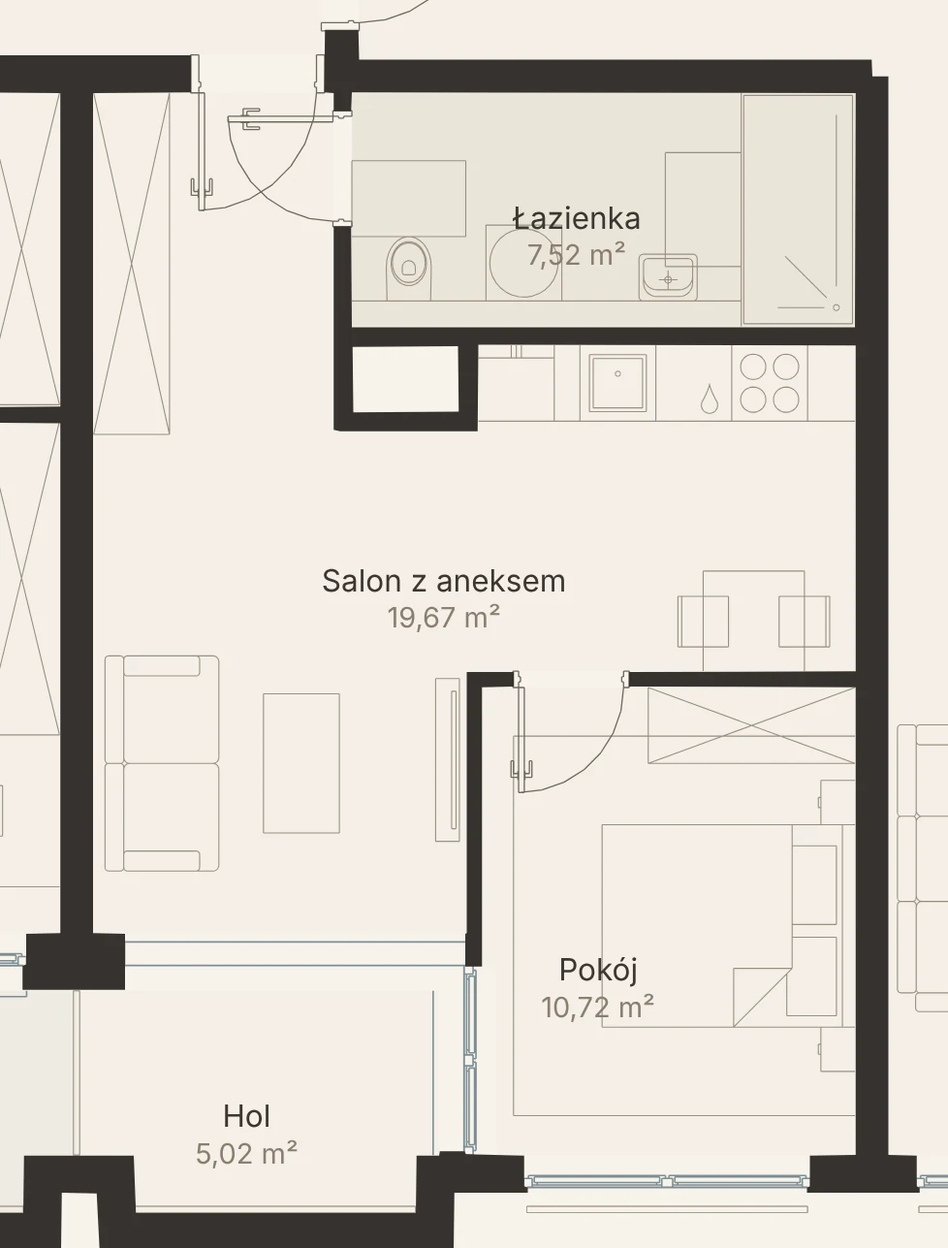
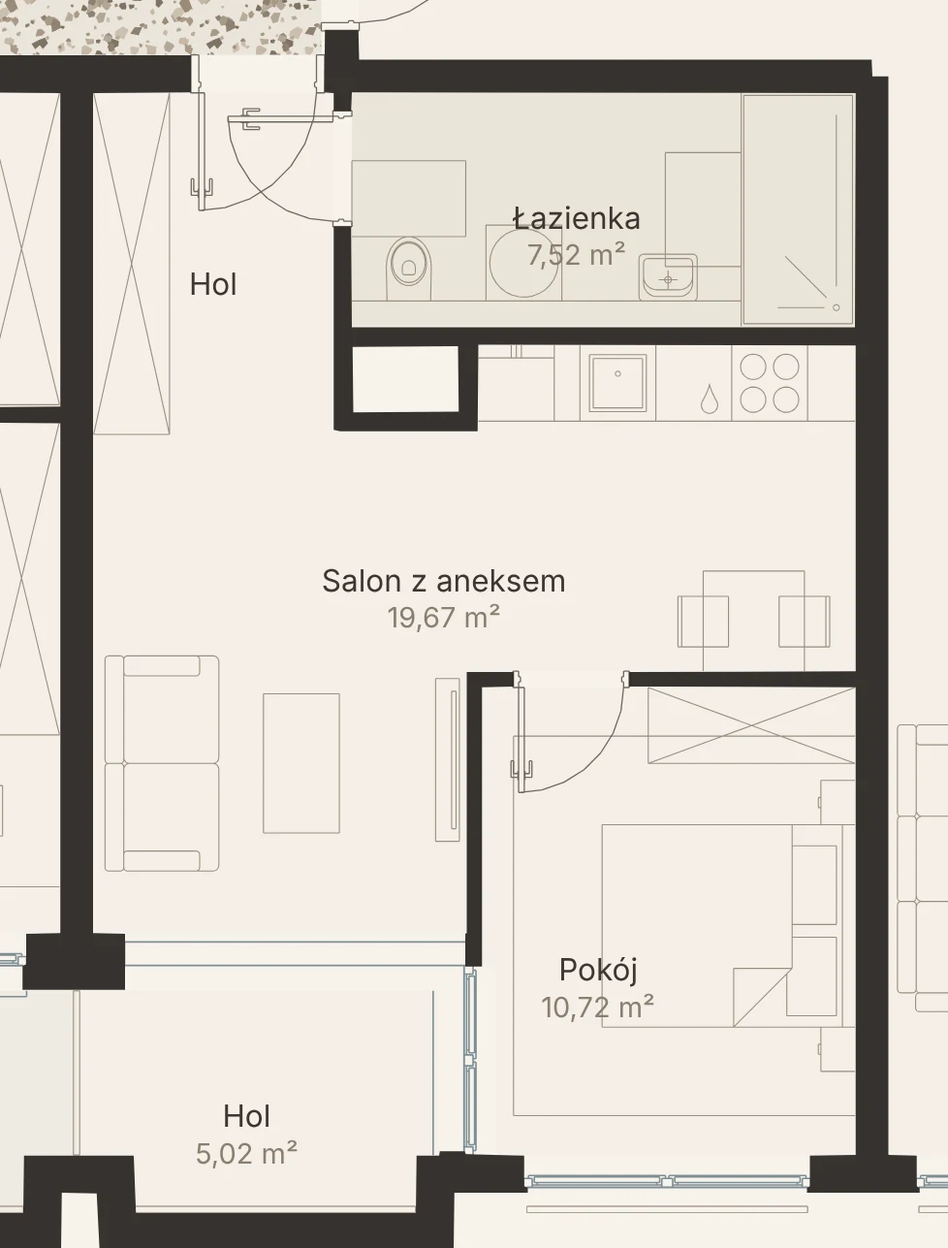
M3.07/M4.07: hol należy do lokalu; 3D: przejrzystsze szkło, stolik i 2 fotele na loggiach, obraz na 1,5 m z dala od TV, bez okapu/szafek nad wyspą, szafki górne przy ścianie, realistyczniejsze światło (ACES, połysk materiałów, okluzja) (#122)
Claude-Session: https://claude.ai/code/session_01JqTzECbEDLjSdFDYMQNNHw

Changed region(s): [[0.0, 0.0, 0.3374, 0.0622], [0.2147, 0.2176, 0.2454, 0.2486]]

diff --git a/assets/js/dollhouse.js b/assets/js/dollhouse.js
@@ -12,7 +12,7 @@
     oak: [104, 74, 53], tile: [222, 214, 201], stone: [205, 198, 187],
     linen: [236, 230, 220], linen2: [244, 241, 235], boucle: [232, 226, 215], sand: [214, 200, 179], taupe: [176, 160, 141],
     mocha: [134, 108, 88], walnut: [96, 70, 52], door: [78, 52, 36], onyx: [120, 78, 56], oakLight: [204, 182, 150], travertine: [221, 210, 192], brass: [178, 145, 92],
-    veneer: [146, 102, 70], marble: [238, 235, 229], canvas: [234, 222, 201], terra: [184, 98, 62], ochre: [208, 152, 74], umber: [92, 62, 44], sienna: [158, 84, 52], legs: [120, 120, 118], raksa: [212, 200, 182], raksa2: [198, 186, 168], black: [38, 36, 34], white: [247, 246, 242], cabinet: [217, 208, 194], steel: [150, 150, 148], glass: [110, 172, 220], rug: [226, 217, 202],
+    veneer: [146, 102, 70], marble: [238, 235, 229], canvas: [234, 222, 201], terra: [184, 98, 62], ochre: [208, 152, 74], umber: [92, 62, 44], sienna: [158, 84, 52], legs: [120, 120, 118], raksa: [212, 200, 182], raksa2: [198, 186, 168], black: [38, 36, 34], white: [247, 246, 242], cabinet: [217, 208, 194], steel: [150, 150, 148], glass: [196, 216, 226], rug: [226, 217, 202],
     green: [110, 124, 92], pot: [196, 184, 166], teak: [168, 134, 98], teak2: [150, 114, 80], olive: [118, 128, 96], olive2: [134, 144, 110],
     bronze: [120, 96, 70], frame: [190, 164, 120], curtain: [240, 235, 226], rugOut: [214, 205, 190]
   };
@@ -123,15 +123,16 @@
       M.cyl(p[0], p[1], r * 1.35, dy + 0.75, dy + 1.05, C.olive, 14); M.cyl(p[0], p[1], r * 1.05, dy + 1.05, dy + 1.3, C.olive2, 12); M.cyl(p[0], p[1], 0.02, dy + 0.55, dy + 0.78, C.walnut, 6);
     };
     if (L > 1.6) { plant(-L / 2 + 0.4, 0, 0.2); plant(L / 2 - 0.4, 0, 0.2); }
-    if (D < 1.25 || L < 2.4) return;
-    [-0.55, 0.55].forEach(function (u) {
+    if (D < 0.9 || L < 1.7) return;
+    var cw = Math.min(0.33, (D - 0.2) / 2), cu = Math.min(0.55, L / 2 - 0.45);
+    [-cu, cu].forEach(function (u) {
       if (!ok(u, 0)) return;
-      var a = at(u - 0.33, -0.36), c = at(u + 0.33, 0.36);
+      var a = at(u - cw, -cw), c = at(u + cw, cw);
       var x0 = Math.min(a[0], c[0]), x1 = Math.max(a[0], c[0]), z0 = Math.min(a[1], c[1]), z1 = Math.max(a[1], c[1]);
       M.box(x0, z0, x1, z1, dy + 0.05, dy + 0.3, C.teak2); M.box(x0 + 0.04, z0 + 0.04, x1 - 0.04, z1 - 0.04, dy + 0.3, dy + 0.42, C.linen);
-      var bk = at(u, -0.36); M.box(horiz ? x0 + 0.04 : bk[0] - 0.05, horiz ? bk[1] - 0.05 : z0 + 0.04, horiz ? x1 - 0.04 : bk[0] + 0.05, horiz ? bk[1] + 0.05 : z1 - 0.04, dy + 0.3, dy + 0.75, C.linen);
+      var bk = at(u, -cw); M.box(horiz ? x0 + 0.04 : bk[0] - 0.05, horiz ? bk[1] - 0.05 : z0 + 0.04, horiz ? x1 - 0.04 : bk[0] + 0.05, horiz ? bk[1] + 0.05 : z1 - 0.04, dy + 0.3, dy + 0.75, C.linen);
     });
-    var t = at(0, 0.05); M.cyl(t[0], t[1], 0.24, dy + 0.42, dy + 0.46, C.travertine, 24); M.cyl(t[0], t[1], 0.05, dy, dy + 0.42, C.bronze, 10);
+    var t = at(0, 0.05); M.cyl(t[0], t[1], Math.min(0.24, cu - cw - 0.04), dy + 0.42, dy + 0.46, C.travertine, 24); M.cyl(t[0], t[1], 0.05, dy, dy + 0.42, C.bronze, 10);
     if (D > 1.6) { var r = at(0, 0); M.box(r[0] - (horiz ? 1.1 : 0.7), r[1] - (horiz ? 0.7 : 1.1), r[0] + (horiz ? 1.1 : 0.7), r[1] + (horiz ? 0.7 : 1.1), dy, dy + 0.01, C.rugOut); }
   }
 
@@ -229,6 +230,7 @@
         M.box(horiz ? q[0] : cc - 0.05, horiz ? cc - 0.05 : q[0], horiz ? q[1] : cc + 0.05, horiz ? cc + 0.05 : q[1], dy + 0.02, dy + WALL_H - 0.08, C.curtain);
       });
     });
+    CUR_WALLS = lv.walls.map(function (w) { return [w[0] + dx, w[1] + dz, w[2] + dx, w[3] + dz]; });
     lv.items.forEach(function (it) { try { furnish(M, it, dx, dz, dy); } catch (e) { /* pojedynczy mebel nie blokuje modelu */ } });
     try { painting(M, lv, dx, dz, dy); } catch (e) { /* obraz opcjonalny */ }
   }
@@ -239,6 +241,7 @@
     var sal = lv.floors.filter(function (f) { return /salon/i.test(f.n); })[0] || lv.floors.filter(function (f) { return f.k === 'in'; }).sort(function (a, b) { return b.a - a.a; })[0];
     if (!sal) return;
     var bad = lv.items.filter(function (it) { return /counter|appl|sink|hob|fridge|wardrobe|tv|island/.test(it.t); }).map(function (it) { return bbox(it.q); });
+    var tvs = lv.items.filter(function (it) { return it.t === 'tv'; }).map(function (it) { return bbox(it.q); });
     var sofas = lv.items.filter(function (it) { return it.t === 'sofa'; }).map(function (it) { return bbox(it.q); });
     var near = function (p, b, d) { return p[0] > b[0] - d && p[0] < b[2] + d && p[1] > b[1] - d && p[1] < b[3] + d; };
     var best = null;
@@ -251,6 +254,7 @@
         var pr = function (along, off) { return hz ? [along, c + s * off] : [c + s * off, along]; };
         for (var m = a0 + 0.65; m <= a0 + len - 0.65 + 1e-6; m += 0.25) {
           if (![-0.5, 0, 0.5].every(function (o) { return inside(pr(m + o, 0.3), sal.p); })) continue;
+          if (tvs.some(function (b) { return near(pr(m, 0.3), b, 1.4); })) continue;
           if (bad.some(function (b) { return near(pr(m, 0.3), b, 0.55) || near(pr(m - 0.5, 0.3), b, 0.3) || near(pr(m + 0.5, 0.3), b, 0.3); })) continue;
           var glassy = (lv.glass || []).some(function (g) { var gh = (g[2] - g[0]) >= (g[3] - g[1]); if (gh !== hz) return false; var gc = hz ? (g[1] + g[3]) / 2 : (g[0] + g[2]) / 2; if (Math.abs(gc - c) > 0.45) return false; var g0 = hz ? g[0] : g[1], g1 = hz ? g[2] : g[3]; return g1 > m - 0.6 && g0 < m + 0.6; });
           if (glassy) continue;
@@ -260,7 +264,7 @@
       });
     });
     if (!best) return;
-    var B = best, y0 = 0.98;
+    var B = best, y0 = 1.0;
     // prostokąt w płaszczyźnie ściany: u – wzdłuż ściany (0..1 m), v – wysokość, d – odsunięcie od ściany
     var rect = function (u0, u1, v0, v1, d0, d1, col) {
       var a = B.m - 0.5 + u0, b = B.m - 0.5 + u1, p0 = B.c + B.s * d0, p1 = B.c + B.s * d1;
@@ -284,6 +288,9 @@
     disc(0.73, 0.78, 0.07, 0.054, C.sienna);                           // małe słońce
   }
 
+  var CUR_WALLS = [];
+  // czy za blokiem (strona y=0) stoi ściana – inaczej to wyspa i nie wieszamy szafek ani okapu
+  function againstWall(pts) { return pts.every(function (p) { return CUR_WALLS.some(function (w) { return p[0] > w[0] - 0.12 && p[0] < w[2] + 0.12 && p[1] > w[1] - 0.12 && p[1] < w[3] + 0.12; }); }); }
   function furnish(M, it, dx, dz, dy) {
     var Lw = frame(it), L = function (x, y) { var p = Lw(x, y); return [p[0] + dx, p[1] + dz]; };
     var regs = it.l.map(function (P, i) { var b = bbox(P); return { P: P, W: it.r[i], b: b, w: b[2] - b[0], d: b[3] - b[1], A: polyArea(P) / 1e4 }; })
@@ -440,13 +447,16 @@
         M.prism(q, Y(0.08), Y(0.88), C.veneer, C.veneer, 5); M.prism(q, Y(0), Y(0.08), C.black);
         M.prism(q, Y(0.88), Y(0.92), C.marble, C.marble, 6);
         // ściana po stronie y=0 bloku; front po przeciwnej
-        var wallY = sgn > 0 ? lb[1] : lb[3], frontY = sgn > 0 ? lb[3] : lb[1], fw = lb[2] - lb[0];
+        var fw = lb[2] - lb[0], probe = function (yy, s) { return againstWall([L(lb[0] + fw * .25, yy + s * 8), L(lb[0] + fw * .75, yy + s * 8)]); };
+        var wA = probe(lb[1], -1), wB = probe(lb[3], 1), ksg = wA ? 1 : wB ? -1 : sgn;   // strona ściany sprawdzana geometrią
+        var wallY = ksg > 0 ? lb[1] : lb[3], frontY = ksg > 0 ? lb[3] : lb[1]; sgn = ksg;
         var nF = Math.max(1, Math.round(fw / 60)), fs = fw / nF;
         for (var k = 0; k < nF; k++) {                                       // uchwyty: smukłe mosiężne listwy na frontach
           var a0 = lb[0] + k * fs + 12, a1 = lb[0] + (k + 1) * fs - 12;
           if (a1 - a0 > 6) M.prism(R([a0, Math.min(frontY, frontY + sgn * 2.5), a1, Math.max(frontY, frontY + sgn * 2.5)]), Y(0.78), Y(0.795), C.brass);
         }
-        if (it.t !== 'hob') {                                                 // szafki górne z forniru
+        if (!wA && !wB) break;
+        if (it.t === 'appl') {} else if (it.t !== 'hob') {                    // szafki górne z forniru
           M.prism(R([lb[0] + 1, Math.min(wallY, wallY + sgn * 35), lb[2] - 1, Math.max(wallY, wallY + sgn * 35)]), Y(1.42), Y(WALL_H - 0.02), C.veneer, C.veneer, 5);
           for (var k2 = 0; k2 < nF; k2++) { var b0 = lb[0] + k2 * fs + 12, b1 = lb[0] + (k2 + 1) * fs - 12, fy = wallY + sgn * 35; if (b1 - b0 > 6) M.prism(R([b0, Math.min(fy, fy + sgn * 2.5), b1, Math.max(fy, fy + sgn * 2.5)]), Y(1.45), Y(1.465), C.brass); }
         } else {                                                              // okap nad płytą
@@ -493,7 +503,7 @@
     'vec3 lin(vec3 c){return pow(c,vec3(2.2));}' +
     'float h(vec2 p){return fract(sin(dot(p,vec2(127.1,311.7)))*43758.5453);}' +
     'float sh(){vec3 q=vL.xyz/vL.w*.5+.5;if(q.x<0.||q.x>1.||q.y<0.||q.y>1.)return 1.;float s=0.;vec2 t=1./vec2(textureSize(uS,0));' +
-    'for(int x=-2;x<=2;x++)for(int y=-2;y<=2;y++){float d=texture(uS,q.xy+vec2(x,y)*t*2.2).r;s+=q.z-.0012>d?0.:1.;}return s/25.;}' +
+    'for(int x=-2;x<=2;x++)for(int y=-2;y<=2;y++){float d=texture(uS,q.xy+vec2(x,y)*t*3.).r;s+=q.z-.0012>d?0.:1.;}return smoothstep(0.,1.,s/25.);}' +
     'void main(){vec3 N=normalize(vN);vec3 col=lin(vC);int M=int(vM+.5);' +
     'if(M==1&&N.y>.5){float cw=.42,bw=.12;float cx=vP.x/cw;float ci=floor(cx);float lx=fract(cx)*cw;float sg=mod(ci,2.)<1.?1.:-1.;' +
     'float u=(vP.z+sg*lx)*.7071;float ri=floor(u/bw);float fu=fract(u/bw);float v=h(vec2(ri,ci));' +
@@ -505,12 +515,19 @@
     'float w=m2*pw*34.+sin(yl*2.3+pi*1.7)*1.4+sin(m2*9.+yl*.9)*.5;float g=.5+.5*sin(w*6.283*1.4);col*=.86+.1*g+.05*h(vec2(floor(m2*pw*240.),pi));' +
     'if(N.y<.5){float e=min(fu,1.-fu)*pw;col*=mix(.55,1.,smoothstep(0.,.004,e));float hy=abs(yl-.5);col*=mix(.6,1.,smoothstep(0.,.004,hy));}}' +
     'if(M==6){vec2 q=vP.xz*1.7+vec2(vP.y*.7);float n=sin(q.x*2.1+sin(q.y*1.3+q.x*.7)*2.4+sin(q.y*3.7)*.6);float v=smoothstep(.93,1.,abs(n));float n2=sin(q.y*5.3+sin(q.x*4.1)*1.6);float v2=smoothstep(.97,1.,abs(n2));col=mix(col,col*vec3(.62,.6,.6),v*.55+v2*.3);col*=.97+.03*h(floor(vP.xz*40.));}' +
-    'if(M==9){vec3 V=normalize(uEye-vP);float fr=pow(1.-abs(dot(N,V)),3.);o=vec4(mix(vC,vec3(.85,.93,1.),fr*.5),uA+fr*.2);return;}' +
-    'float ndl=max(dot(N,uSun),0.);float s=sh();vec3 sky=vec3(1.,.975,.94),gr=vec3(.62,.56,.5);' +
-    'vec3 amb=mix(gr,sky,N.y*.5+.5)*.74;float ao=mix(.72,1.,smoothstep(0.,.5,vP.y-floor(vP.y/3.05)*3.05+.02));' +
-    'vec3 L=col*(amb*ao+vec3(1.,.93,.84)*.86*ndl*mix(.25,1.,s));' +
-    'vec3 V=normalize(uEye-vP);float sp=pow(max(dot(N,normalize(uSun+V)),0.),40.)*.06*s;L+=sp;' +
-    'L=L/(L+.75)*1.55;o=vec4(pow(L,vec3(1./2.2)),uA);}';
+    'if(M==9){vec3 V=normalize(uEye-vP);float fr=pow(1.-abs(dot(N,V)),3.);o=vec4(mix(vC,vec3(.9,.95,1.),fr*.5),uA+fr*.16);return;}' +
+    'float ndl=max(dot(N,uSun),0.);float s=sh();vec3 V=normalize(uEye-vP);float yl=vP.y-floor(vP.y/3.05)*3.05+.02;' +
+    // światło nieba (chłodniejsze) + odbicie od podłogi z orzecha (ciepłe), miękka okluzja przy podłodze i w narożach
+    'vec3 sky=vec3(.86,.9,1.),bounce=vec3(.78,.6,.46);vec3 amb=mix(bounce*.55,sky*.62,N.y*.5+.5);' +
+    'float ao=mix(.55,1.,smoothstep(0.,.9,yl))*mix(.82,1.,smoothstep(0.,.35,yl));if(N.y>.5)ao=1.;' +
+    'vec3 sunC=vec3(1.,.9,.76)*1.15;vec3 shC=mix(vec3(.62,.68,.8),vec3(1.),s);' +
+    'vec3 L=col*(amb*ao+sunC*ndl*shC*mix(.18,1.,s));' +
+    // połysk zależny od materiału: lakierowany parkiet, polerowany marmur, satynowy fornir, reszta matowa
+    'float gs=M==1?.35:M==6?.6:M==5?.18:M==2?.25:.04;float pw=M==6?90.:M==1?60.:30.;' +
+    'float fr=.04+.96*pow(1.-max(dot(N,V),0.),5.);vec3 Hh=normalize(uSun+V);' +
+    'L+=sunC*pow(max(dot(N,Hh),0.),pw)*gs*s*.9+sky*fr*gs*.35;' +
+    // ACES (filmowe) mapowanie tonów
+    'L*=.95;L=clamp((L*(2.51*L+.03))/(L*(2.43*L+.59)+.14),0.,1.);L=mix(vec3(dot(L,vec3(.2126,.7152,.0722))),L,.8);o=vec4(pow(L,vec3(1./2.2)),uA);}';
   var SVS = '#version 300 es\nlayout(location=0) in vec3 p;uniform mat4 uL;void main(){gl_Position=uL*vec4(p,1.);}';
   var SFS = '#version 300 es\nprecision mediump float;out vec4 o;void main(){o=vec4(1.);}';
 
@@ -591,7 +608,7 @@
     gl.enable(gl.CULL_FACE); gl.cullFace(gl.BACK);
     gl.bindVertexArray(this.op.vao); gl.drawArrays(gl.TRIANGLES, 0, this.op.n);
     gl.disable(gl.CULL_FACE);
-    gl.enable(gl.BLEND); gl.blendFunc(gl.SRC_ALPHA, gl.ONE_MINUS_SRC_ALPHA); gl.depthMask(false); gl.uniform1f(u('uA'), 0.5);
+    gl.enable(gl.BLEND); gl.blendFunc(gl.SRC_ALPHA, gl.ONE_MINUS_SRC_ALPHA); gl.depthMask(false); gl.uniform1f(u('uA'), 0.26);
     gl.bindVertexArray(this.gl_.vao); gl.drawArrays(gl.TRIANGLES, 0, this.gl_.n);
     gl.depthMask(true); gl.disable(gl.BLEND);
   };
@@ -688,7 +705,7 @@
     var load = dlg.querySelector('.dh__load'); load.hidden = false; load.textContent = 'Ładowanie modelu…';
     if (!viewer) { load.textContent = 'Ta przeglądarka nie obsługuje widoku 3D.'; return; }
     viewer.az = -0.62; viewer.el = 1.0; viewer.zoom = 1;
-    fetch(BASE + encodeURIComponent(id) + '.json?v=1793991387').then(function (r) { return r.ok ? r.json() : Promise.reject(); }).then(function (d) {
+    fetch(BASE + encodeURIComponent(id) + '.json?v=1793991758').then(function (r) { return r.ok ? r.json() : Promise.reject(); }).then(function (d) {
       data = d; setLevels(); show(0); load.hidden = true; intro();
     }).catch(function () { load.textContent = 'Model 3D tego lokalu jest w przygotowaniu.'; });
     setTimeout(function () { var x = dlg.querySelector('.dh__x'); if (x) x.focus({ preventScroll: true }); }, 50);

diff --git a/assets/js/units.js b/assets/js/units.js
@@ -28,7 +28,7 @@ window.N75_UNITS = [
   {"id":"M3.04","floor":3,"levels":[3],"rooms":3,"area":64.8,"roomsList":[[1,"Pokój",11.38],[2,"Salon z aneksem kuchennym",29.28],[4,"Łazienka",4.28],[5,"Pokój",12.77],[6,"Komunikacja",7.44]],"price":876096,"status":"wolne","history":[["2026-08-25",876096]],"shape":{"3":[[204,550],[204,700],[193,700],[192,705],[128,705],[128,964],[373,964],[373,922],[401,922],[401,880],[418,879],[418,760],[545,760],[545,642],[516,642],[516,550]]},"label":{"3":[385,649]},"crop":{"3":[98,520,477,474]}},
   {"id":"M3.05","floor":3,"levels":[3],"rooms":2,"area":42.81,"roomsList":[[1,"Salon z aneksem kuchennym",26.02],[2,"Łazienka",5.84],[3,"Pokój",11.15]],"price":601052,"status":"wolne","history":[["2026-08-25",601052]],"shape":{"3":[[128,972],[128,1108],[192,1108],[193,1113],[204,1113],[204,1244],[514,1244],[514,1214],[545,1213],[545,1066],[374,1066],[373,990],[334,990],[333,972]]},"label":{"3":[384,1160]},"crop":{"3":[98,942,477,332]}},
   {"id":"M3.06","floor":3,"levels":[3],"rooms":4,"area":114.55,"roomsList":[[1,"Pokój",11.41],[2,"Salon z aneksem kuchennym",44.46],[3,"Łazienka",4.97],[4,"Łazienka",4.7],[5,"Pokój",21.87],[6,"Komunikacja",15.48],[7,"Pokój",10.39],[8,"Pralnia",1.35]],"price":1489150,"status":"wolne","history":[["2026-08-25",1489150]],"shape":{"3":[[128,1252],[128,1783],[370,1783],[370,1707],[636,1707],[636,1414],[545,1414],[545,1403],[486,1403],[486,1382],[545,1382],[545,1303],[516,1302],[516,1252]]},"label":{"3":[283,1661]},"crop":{"3":[98,1222,568,591]}},
-  {"id":"M3.07","floor":3,"levels":[3],"rooms":2,"area":42.65,"roomsList":[[2,"Salon z aneksem kuchennym",19.67],[3,"Łazienka",7.52],[4,"Komunikacja",5.02],[8,"Pokój",10.72]],"price":598806,"status":"wolne","history":[["2026-08-25",598806]],"shape":{"3":[[732,1414],[732,1498],[775,1498],[776,1530],[643,1529],[643,1707],[777,1707],[777,1719],[782,1719],[782,1783],[909,1783],[909,1414]]},"label":{"3":[765,1588]},"crop":{"3":[613,1384,326,429]}},
+  {"id":"M3.07","floor":3,"levels":[3],"rooms":2,"area":42.65,"roomsList":[[2,"Salon z aneksem kuchennym",19.67],[3,"Łazienka",7.52],[4,"Komunikacja",5.02],[8,"Pokój",10.72]],"price":598806,"status":"wolne","history":[["2026-08-25",598806]],"shape":{"3":[[643,1414],[643,1707],[777,1707],[777,1719],[782,1719],[782,1783],[909,1783],[909,1414]]},"label":{"3":[765,1588]},"crop":{"3":[613,1384,326,429]}},
   {"id":"M3.08","floor":3,"levels":[3],"rooms":3,"area":91.88,"roomsList":[[1,"Pokój",10.24],[2,"Salon z aneksem kuchennym",47.68],[3,"Pokój",17.72],[4,"Łazienka",4.3],[6,"Łazienka",5.48],[7,"Komunikacja",6.89]],"price":1242218,"status":"wolne","history":[["2026-08-25",1242218]],"shape":{"3":[[734,1163],[734,1277],[766,1277],[766,1311],[734,1312],[734,1406],[911,1406],[911,1412],[917,1412],[917,1783],[1179,1783],[1179,1463],[1114,1462],[1114,1163],[870,1163],[869,1189],[849,1189],[849,1163]]},"label":{"3":[1049,1569]},"crop":{"3":[704,1133,505,680]}},
   {"id":"M3.09","floor":3,"levels":[3],"rooms":1,"area":32.44,"roomsList":[[1,"Łazienka",4.56],[2,"Salon z aneksem kuchennym",28.02]],"price":435215,"status":"wolne","history":[["2026-08-25",435215]],"shape":{"3":[[1028,958],[1009,957],[1009,925],[954,925],[954,957],[939,957],[939,931],[711,931],[711,961],[677,961],[677,931],[650,931],[650,1125],[685,1125],[685,1156],[950,1156],[950,1148],[1028,1148]]},"label":{"3":[796,1038]},"crop":{"3":[620,895,438,291]}},
   {"id":"M3.10","floor":3,"levels":[3],"rooms":1,"area":54.16,"roomsList":[[1,"Salon z aneksem kuchennym",47.61],[2,"Łazienka",3.88],[3,"Komunikacja",2.85]],"price":670284,"status":"wolne","history":[["2026-08-25",670284]],"shape":{"3":[[670,570],[670,647],[650,647],[650,746],[681,746],[685,796],[650,796],[650,898],[681,898],[681,923],[954,923],[954,929],[1028,929],[1028,776],[1009,776],[1009,742],[1028,742],[1028,558],[939,558],[939,550],[694,550],[694,570]]},"label":{"3":[792,739]},"crop":{"3":[620,520,438,439]}},
@@ -38,7 +38,7 @@ window.N75_UNITS = [
   {"id":"M4.04","floor":4,"levels":[4],"rooms":3,"area":64.8,"roomsList":[[1,"Pokój",11.38],[2,"Salon z aneksem kuchennym",29.28],[4,"Łazienka",4.28],[5,"Pokój",12.77],[6,"Komunikacja",7.44]],"price":943488,"status":"wolne","history":[["2026-08-25",943488]],"shape":{"4":[[204,550],[204,700],[192,700],[192,705],[128,705],[128,964],[373,964],[373,922],[401,922],[401,880],[418,879],[418,760],[545,760],[545,642],[516,642],[516,550]]},"label":{"4":[385,649]},"crop":{"4":[98,520,477,474]}},
   {"id":"M4.05","floor":4,"levels":[4],"rooms":2,"area":42.81,"roomsList":[[1,"Salon z aneksem kuchennym",26.02],[2,"Łazienka",5.84],[3,"Pokój",11.15]],"price":645575,"status":"wolne","history":[["2026-08-25",645575]],"shape":{"4":[[128,972],[128,1108],[192,1108],[193,1113],[204,1113],[204,1244],[514,1244],[514,1214],[545,1213],[545,1066],[374,1066],[373,990],[334,990],[333,972]]},"label":{"4":[384,1160]},"crop":{"4":[98,942,477,332]}},
   {"id":"M4.06","floor":4,"levels":[4],"rooms":4,"area":114.55,"roomsList":[[1,"Pokój",11.41],[2,"Salon z aneksem kuchennym",44.46],[3,"Łazienka",4.97],[4,"Łazienka",4.7],[5,"Pokój",21.87],[6,"Komunikacja",15.48],[7,"Pokój",10.39],[8,"Pralnia",1.35]],"price":1548716,"status":"wolne","history":[["2026-08-25",1548716]],"shape":{"4":[[128,1252],[128,1783],[370,1783],[370,1707],[636,1707],[636,1414],[545,1414],[545,1403],[486,1403],[486,1382],[545,1382],[545,1303],[516,1302],[516,1252]]},"label":{"4":[283,1661]},"crop":{"4":[98,1222,568,591]}},
-  {"id":"M4.07","floor":4,"levels":[4],"rooms":2,"area":42.65,"roomsList":[[2,"Salon z aneksem kuchennym",19.67],[3,"Łazienka",7.52],[4,"Komunikacja",5.02],[8,"Pokój",10.72]],"price":620984,"status":"wolne","history":[["2026-08-25",620984]],"shape":{"4":[[732,1414],[732,1498],[775,1498],[776,1530],[643,1529],[643,1707],[777,1707],[777,1719],[782,1719],[782,1783],[909,1783],[909,1414]]},"label":{"4":[765,1588]},"crop":{"4":[613,1384,326,429]}},
+  {"id":"M4.07","floor":4,"levels":[4],"rooms":2,"area":42.65,"roomsList":[[2,"Salon z aneksem kuchennym",19.67],[3,"Łazienka",7.52],[4,"Komunikacja",5.02],[8,"Pokój",10.72]],"price":620984,"status":"wolne","history":[["2026-08-25",620984]],"shape":{"4":[[643,1414],[643,1707],[777,1707],[777,1719],[782,1719],[782,1783],[909,1783],[909,1414]]},"label":{"4":[765,1588]},"crop":{"4":[613,1384,326,429]}},
   {"id":"M4.08","floor":4,"levels":[4],"rooms":3,"area":91.88,"roomsList":[[1,"Pokój",10.24],[2,"Salon z aneksem kuchennym",47.68],[3,"Pokój",17.72],[4,"Łazienka",4.3],[6,"Łazienka",5.48],[7,"Komunikacja",6.89]],"price":1242218,"status":"wolne","history":[["2026-08-25",1242218]],"shape":{"4":[[1179,1144],[1118,1144],[1117,1163],[870,1163],[869,1189],[849,1189],[849,1163],[734,1163],[734,1277],[766,1277],[766,1311],[734,1312],[734,1406],[911,1406],[911,1412],[917,1412],[917,1783],[1179,1783],[1179,1463],[1114,1462],[1114,1167],[1129,1168],[1129,1447],[1179,1447],[1179,1417],[1199,1417],[1199,1182],[1179,1182]]},"label":{"4":[1039,1565]},"crop":{"4":[704,1114,525,699]}},
   {"id":"M4.09","floor":4,"levels":[4],"rooms":1,"area":32.21,"roomsList":[[1,"Łazienka",4.56],[2,"Salon z aneksem kuchennym",28.02]],"price":468978,"status":"wolne","history":[["2026-08-25",468978]],"shape":{"4":[[1028,958],[1009,957],[1009,925],[954,925],[954,957],[939,957],[939,931],[711,931],[711,961],[677,961],[677,931],[650,931],[650,1125],[685,1125],[685,1156],[950,1156],[950,1148],[1028,1148]]},"label":{"4":[804,1032]},"crop":{"4":[620,895,438,291]}},
   {"id":"M4.10","floor":4,"levels":[4],"rooms":1,"area":54.16,"roomsList":[[1,"Salon z aneksem kuchennym",47.61],[2,"Łazienka",3.88],[3,"Komunikacja",2.85]],"price":726611,"status":"wolne","history":[["2026-08-25",726611]],"shape":{"4":[[670,570],[670,647],[650,647],[650,746],[681,746],[685,796],[650,796],[650,898],[681,898],[681,923],[954,923],[954,929],[1028,929],[1028,776],[1009,776],[1009,742],[1028,742],[1028,558],[939,558],[939,550],[694,550],[694,570]]},"label":{"4":[792,739]},"crop":{"4":[620,520,438,439]}},

diff --git a/index.html b/index.html
@@ -18,7 +18,7 @@
   <link href="https://fonts.googleapis.com/css2?family=Jost:ital,wght@0,300..600;1,300..500&family=Nunito+Sans:ital,opsz,wght@0,6..12,300..700;1,6..12,300..500&display=swap" rel="stylesheet">
   <link rel="preload" as="image" href="assets/img/okolica-lotnicze.webp" imagesrcset="assets/img/okolica-lotnicze-1600.webp 1600w, assets/img/okolica-lotnicze.webp 3200w" imagesizes="100vw">
   <link rel="stylesheet" href="https://unpkg.com/leaflet@1.9.4/dist/leaflet.css" crossorigin="">
-  <link rel="stylesheet" href="assets/css/style.css?v=1793991387">
+  <link rel="stylesheet" href="assets/css/style.css?v=1793991758">
   <script>document.documentElement.classList.add('js');
   // Futura / Avenir Next tylko na Apple: gdy ich brak, dostrajamy darmowe zamienniki (Jost, Nunito Sans)
   (function(){try{var c=document.createElement('canvas').getContext('2d'),t='MWNmwqr075 Łódź';function w(f){c.font='72px '+f;return c.measureText(t).width}
@@ -671,12 +671,12 @@
 </div>
 
 <script src="https://unpkg.com/leaflet@1.9.4/dist/leaflet.js" crossorigin=""></script>
-<script src="assets/js/intro.js?v=1793991387"></script>
-<script src="assets/js/extras.js?v=1793991387"></script>
-<script src="assets/js/units.js?v=1793991387"></script>
-<script src="assets/js/dziennik.js?v=1793991387"></script>
-<script src="assets/js/plan.js?v=1793991387"></script>
-<script src="assets/js/dollhouse.js?v=1793991387" defer></script>
-<script src="assets/js/main.js?v=1793991387"></script>
+<script src="assets/js/intro.js?v=1793991758"></script>
+<script src="assets/js/extras.js?v=1793991758"></script>
+<script src="assets/js/units.js?v=1793991758"></script>
+<script src="assets/js/dziennik.js?v=1793991758"></script>
+<script src="assets/js/plan.js?v=1793991758"></script>
+<script src="assets/js/dollhouse.js?v=1793991758" defer></script>
+<script src="assets/js/main.js?v=1793991758"></script>
 </body>
 </html>

diff --git a/mieszkanie.html b/mieszkanie.html
@@ -17,7 +17,7 @@
   <!-- Docelowo: Futura PT i Avenir Next z licencji (np. Adobe Fonts). Jost i Nunito Sans to darmowe zamienniki na urządzeniach bez tych krojów. -->
   <link href="https://fonts.googleapis.com/css2?family=Jost:ital,wght@0,300..600;1,300..500&family=Nunito+Sans:ital,opsz,wght@0,6..12,300..700;1,6..12,300..500&display=swap" rel="stylesheet">
   
-  <link rel="stylesheet" href="assets/css/style.css?v=1793991387">
+  <link rel="stylesheet" href="assets/css/style.css?v=1793991758">
   <script>document.documentElement.classList.add('js');
   // Futura / Avenir Next tylko na Apple: gdy ich brak, dostrajamy darmowe zamienniki (Jost, Nunito Sans)
   (function(){try{var c=document.createElement('canvas').getContext('2d'),t='MWNmwqr075 Łódź';function w(f){c.font='72px '+f;return c.measureText(t).width}
@@ -101,11 +101,11 @@
   <button class="lb-close" aria-label="Zamknij"><svg viewBox="0 0 24 24"><path d="M6 6l12 12M18 6L6 18"/></svg></button>
 </div>
 
-<script src="assets/js/extras.js?v=1793991387"></script>
-<script src="assets/js/units.js?v=1793991387"></script>
-<script src="assets/js/plan.js?v=1793991387"></script>
-<script src="assets/js/dollhouse.js?v=1793991387" defer></script>
-<script src="assets/js/unit.js?v=1793991387"></script>
-<script src="assets/js/page.js?v=1793991387"></script>
+<script src="assets/js/extras.js?v=1793991758"></script>
+<script src="assets/js/units.js?v=1793991758"></script>
+<script src="assets/js/plan.js?v=1793991758"></script>
+<script src="assets/js/dollhouse.js?v=1793991758" defer></script>
+<script src="assets/js/unit.js?v=1793991758"></script>
+<script src="assets/js/page.js?v=1793991758"></script>
 </body>
 </html>

diff --git a/porownaj.html b/porownaj.html
@@ -18,7 +18,7 @@
   <!-- Docelowo: Futura PT i Avenir Next z licencji (np. Adobe Fonts). Jost i Nunito Sans to darmowe zamienniki na urządzeniach bez tych krojów. -->
   <link href="https://fonts.googleapis.com/css2?family=Jost:ital,wght@0,300..600;1,300..500&family=Nunito+Sans:ital,opsz,wght@0,6..12,300..700;1,6..12,300..500&display=swap" rel="stylesheet">
   
-  <link rel="stylesheet" href="assets/css/style.css?v=1793991387">
+  <link rel="stylesheet" href="assets/css/style.css?v=1793991758">
   <script>document.documentElement.classList.add('js');
   // Futura / Avenir Next tylko na Apple: gdy ich brak, dostrajamy darmowe zamienniki (Jost, Nunito Sans)
   (function(){try{var c=document.createElement('canvas').getContext('2d'),t='MWNmwqr075 Łódź';function w(f){c.font='72px '+f;return c.measureText(t).width}
@@ -109,9 +109,9 @@
   <button class="lb-close" aria-label="Zamknij"><svg viewBox="0 0 24 24"><path d="M6 6l12 12M18 6L6 18"/></svg></button>
 </div>
 
-<script src="assets/js/extras.js?v=1793991387"></script>
-<script src="assets/js/units.js?v=1793991387"></script>
-<script src="assets/js/page.js?v=1793991387"></script>
-<script src="assets/js/porownaj.js?v=1793991387"></script>
+<script src="assets/js/extras.js?v=1793991758"></script>
+<script src="assets/js/units.js?v=1793991758"></script>
+<script src="assets/js/page.js?v=1793991758"></script>
+<script src="assets/js/porownaj.js?v=1793991758"></script>
 </body>
 </html>

diff --git a/budynek.html b/budynek.html
@@ -17,7 +17,7 @@
   <!-- Docelowo: Futura PT i Avenir Next z licencji (np. Adobe Fonts). Jost i Nunito Sans to darmowe zamienniki na urządzeniach bez tych krojów. -->
   <link href="https://fonts.googleapis.com/css2?family=Jost:ital,wght@0,300..600;1,300..500&family=Nunito+Sans:ital,opsz,wght@0,6..12,300..700;1,6..12,300..500&display=swap" rel="stylesheet">
   
-  <link rel="stylesheet" href="assets/css/style.css?v=1793991387">
+  <link rel="stylesheet" href="assets/css/style.css?v=1793991758">
   <script>document.documentElement.classList.add('js');
   // Futura / Avenir Next tylko na Apple: gdy ich brak, dostrajamy darmowe zamienniki (Jost, Nunito Sans)
   (function(){try{var c=document.createElement('canvas').getContext('2d'),t='MWNmwqr075 Łódź';function w(f){c.font='72px '+f;return c.measureText(t).width}
@@ -164,7 +164,7 @@
   <button class="lb-close" aria-label="Zamknij"><svg viewBox="0 0 24 24"><path d="M6 6l12 12M18 6L6 18"/></svg></button>
 </div>
 
-<script src="assets/js/extras.js?v=1793991387"></script>
-<script src="assets/js/page.js?v=1793991387"></script>
+<script src="assets/js/extras.js?v=1793991758"></script>
+<script src="assets/js/page.js?v=1793991758"></script>
 </body>
 </html>

diff --git a/manifest.html b/manifest.html
@@ -17,7 +17,7 @@
   <!-- Docelowo: Futura PT i Avenir Next z licencji (np. Adobe Fonts). Jost i Nunito Sans to darmowe zamienniki na urządzeniach bez tych krojów. -->
   <link href="https://fonts.googleapis.com/css2?family=Jost:ital,wght@0,300..600;1,300..500&family=Nunito+Sans:ital,opsz,wght@0,6..12,300..700;1,6..12,300..500&display=swap" rel="stylesheet">
   
-  <link rel="stylesheet" href="assets/css/style.css?v=1793991387">
+  <link rel="stylesheet" href="assets/css/style.css?v=1793991758">
   <script>document.documentElement.classList.add('js');
   // Futura / Avenir Next tylko na Apple: gdy ich brak, dostrajamy darmowe zamienniki (Jost, Nunito Sans)
   (function(){try{var c=document.createElement('canvas').getContext('2d'),t='MWNmwqr075 Łódź';function w(f){c.font='72px '+f;return c.measureText(t).width}
@@ -164,7 +164,7 @@
   <button class="lb-close" aria-label="Zamknij"><svg viewBox="0 0 24 24"><path d="M6 6l12 12M18 6L6 18"/></svg></button>
 </div>
 
-<script src="assets/js/extras.js?v=1793991387"></script>
-<script src="assets/js/page.js?v=1793991387"></script>
+<script src="assets/js/extras.js?v=1793991758"></script>
+<script src="assets/js/page.js?v=1793991758"></script>
 </body>
 </html>

diff --git a/polityka-prywatnosci.html b/polityka-prywatnosci.html
@@ -17,7 +17,7 @@
   <!-- Docelowo: Futura PT i Avenir Next z licencji (np. Adobe Fonts). Jost i Nunito Sans to darmowe zamienniki na urządzeniach bez tych krojów. -->
   <link href="https://fonts.googleapis.com/css2?family=Jost:ital,wght@0,300..600;1,300..500&family=Nunito+Sans:ital,opsz,wght@0,6..12,300..700;1,6..12,300..500&display=swap" rel="stylesheet">
   
-  <link rel="stylesheet" href="assets/css/style.css?v=1793991387">
+  <link rel="stylesheet" href="assets/css/style.css?v=1793991758">
   <script>document.documentElement.classList.add('js');
   // Futura / Avenir Next tylko na Apple: gdy ich brak, dostrajamy darmowe zamienniki (Jost, Nunito Sans)
   (function(){try{var c=document.createElement('canvas').getContext('2d'),t='MWNmwqr075 Łódź';function w(f){c.font='72px '+f;return c.measureText(t).width}
@@ -294,7 +294,7 @@
   <button class="lb-close" aria-label="Zamknij"><svg viewBox="0 0 24 24"><path d="M6 6l12 12M18 6L6 18"/></svg></button>
 </div>
 
-<script src="assets/js/extras.js?v=1793991387"></script>
-<script src="assets/js/page.js?v=1793991387"></script>
+<script src="assets/js/extras.js?v=1793991758"></script>
+<script src="assets/js/page.js?v=1793991758"></script>
 </body>
 </html>

diff --git a/assets/js/porownaj.js b/assets/js/porownaj.js
@@ -20,7 +20,7 @@
   var dimH = function (u) { return Math.max.apply(null, u.levels.map(function (l) { return cropH(u, l); })); };
   var K = 1;
   function thumb(u) {
-    return u.levels.map(function (l) { return '<img style="width:' + (cropW(u, l) * K).toFixed(2) + '%" src="assets/img/plany/lokale/' + u.id + '-' + l + '-sm.webp?v=1793991387" alt="Rzut lokalu ' + u.id + (u.levels.length > 1 ? ', piętro ' + l : '') + '" loading="lazy">'; }).join('');
+    return u.levels.map(function (l) { return '<img style="width:' + (cropW(u, l) * K).toFixed(2) + '%" src="assets/img/plany/lokale/' + u.id + '-' + l + '-sm.webp?v=1793991758" alt="Rzut lokalu ' + u.id + (u.levels.length > 1 ? ', piętro ' + l : '') + '" loading="lazy">'; }).join('');
   }
   function roomArea(u, re) { return u.roomsList.filter(function (r) { return re.test(r[1]); }).reduce(function (s, r) { return s + r[2]; }, 0); }
 

diff --git a/assets/js/main.js b/assets/js/main.js
@@ -502,7 +502,7 @@
   // miniatura prawdziwego rzutu lokalu (z meblami); dwupoziomowe: obie kondygnacje obok siebie
   function planThumb(u) {
     return u.levels.map(function (l) {
-      return '<img src="assets/img/plany/lokale/' + u.id + '-' + l + '-sm.webp?v=1793991387" alt="Rzut lokalu ' + u.id + (u.levels.length > 1 ? ', piętro ' + l : '') + '" loading="lazy">';
+      return '<img src="assets/img/plany/lokale/' + u.id + '-' + l + '-sm.webp?v=1793991758" alt="Rzut lokalu ' + u.id + (u.levels.length > 1 ? ', piętro ' + l : '') + '" loading="lazy">';
     }).join('');
   }
 

diff --git a/assets/js/plan.js b/assets/js/plan.js
@@ -3,7 +3,7 @@
 (function () {
   'use strict';
   var NS = 'http://www.w3.org/2000/svg';
-  var W = 1504, H = 1925, V = '?v=1793991387';
+  var W = 1504, H = 1925, V = '?v=1793991758';
 
   function el(tag, attrs, parent) {
     var n = document.createElementNS(NS, tag);
